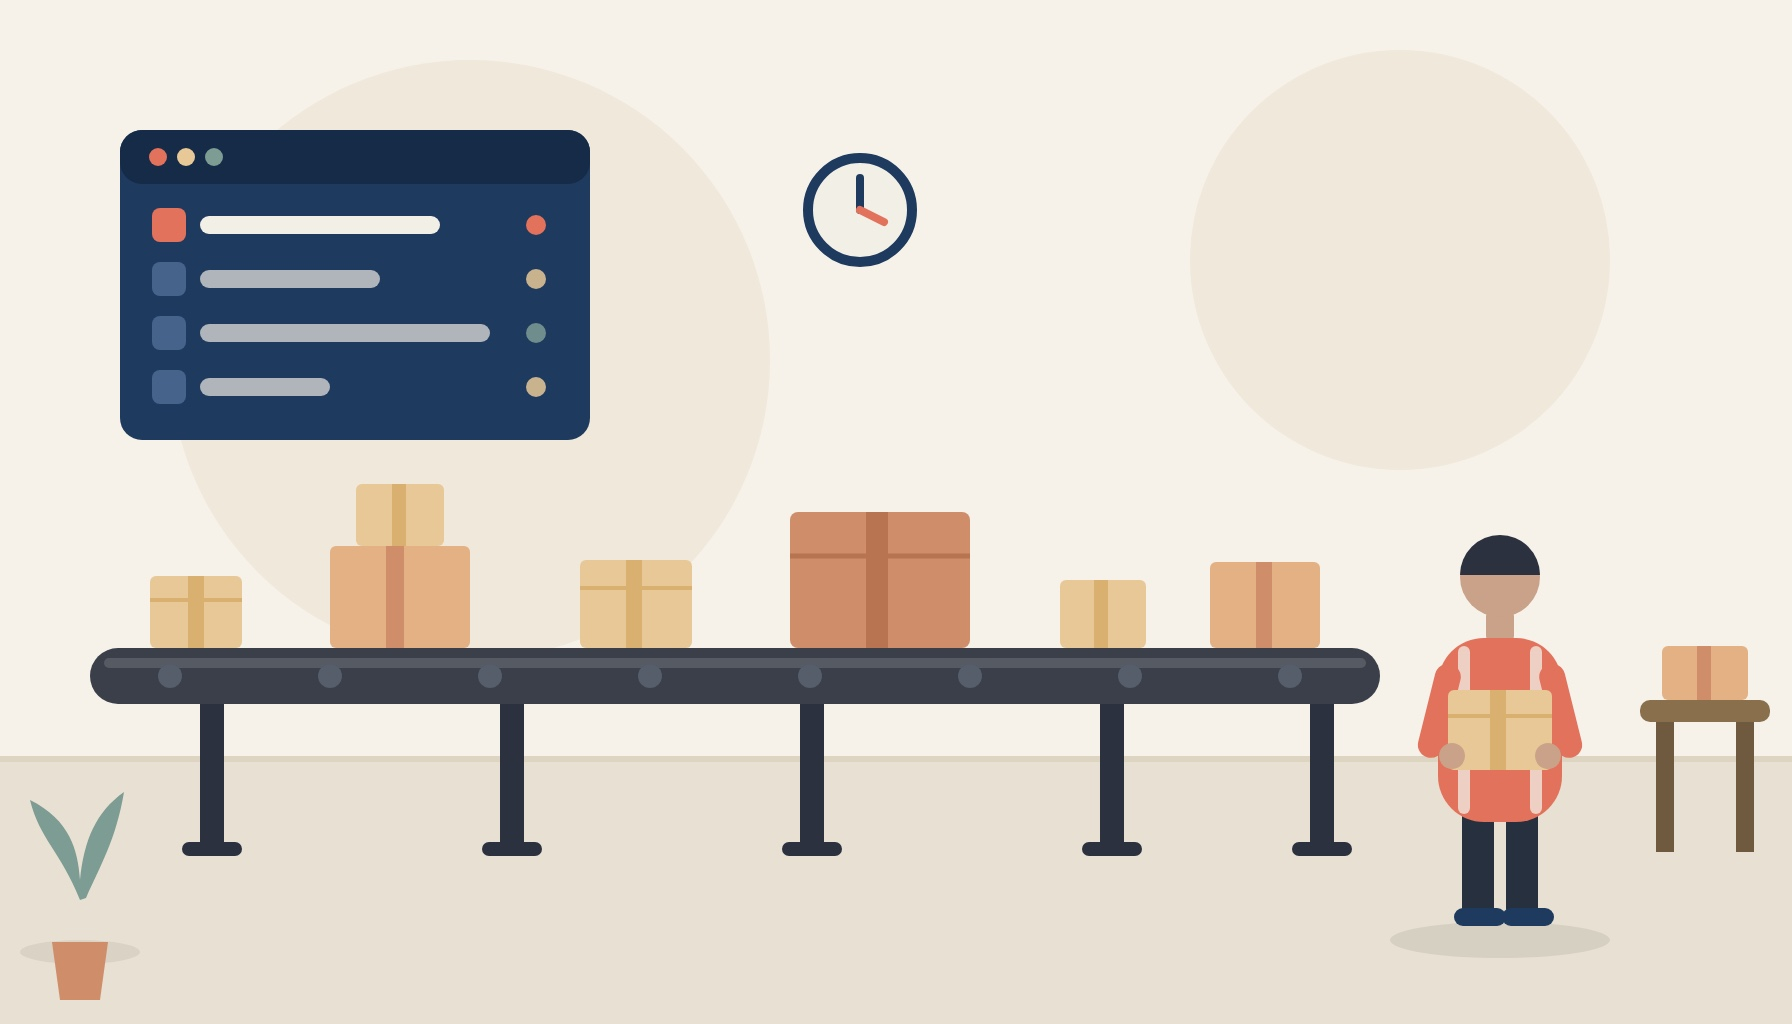
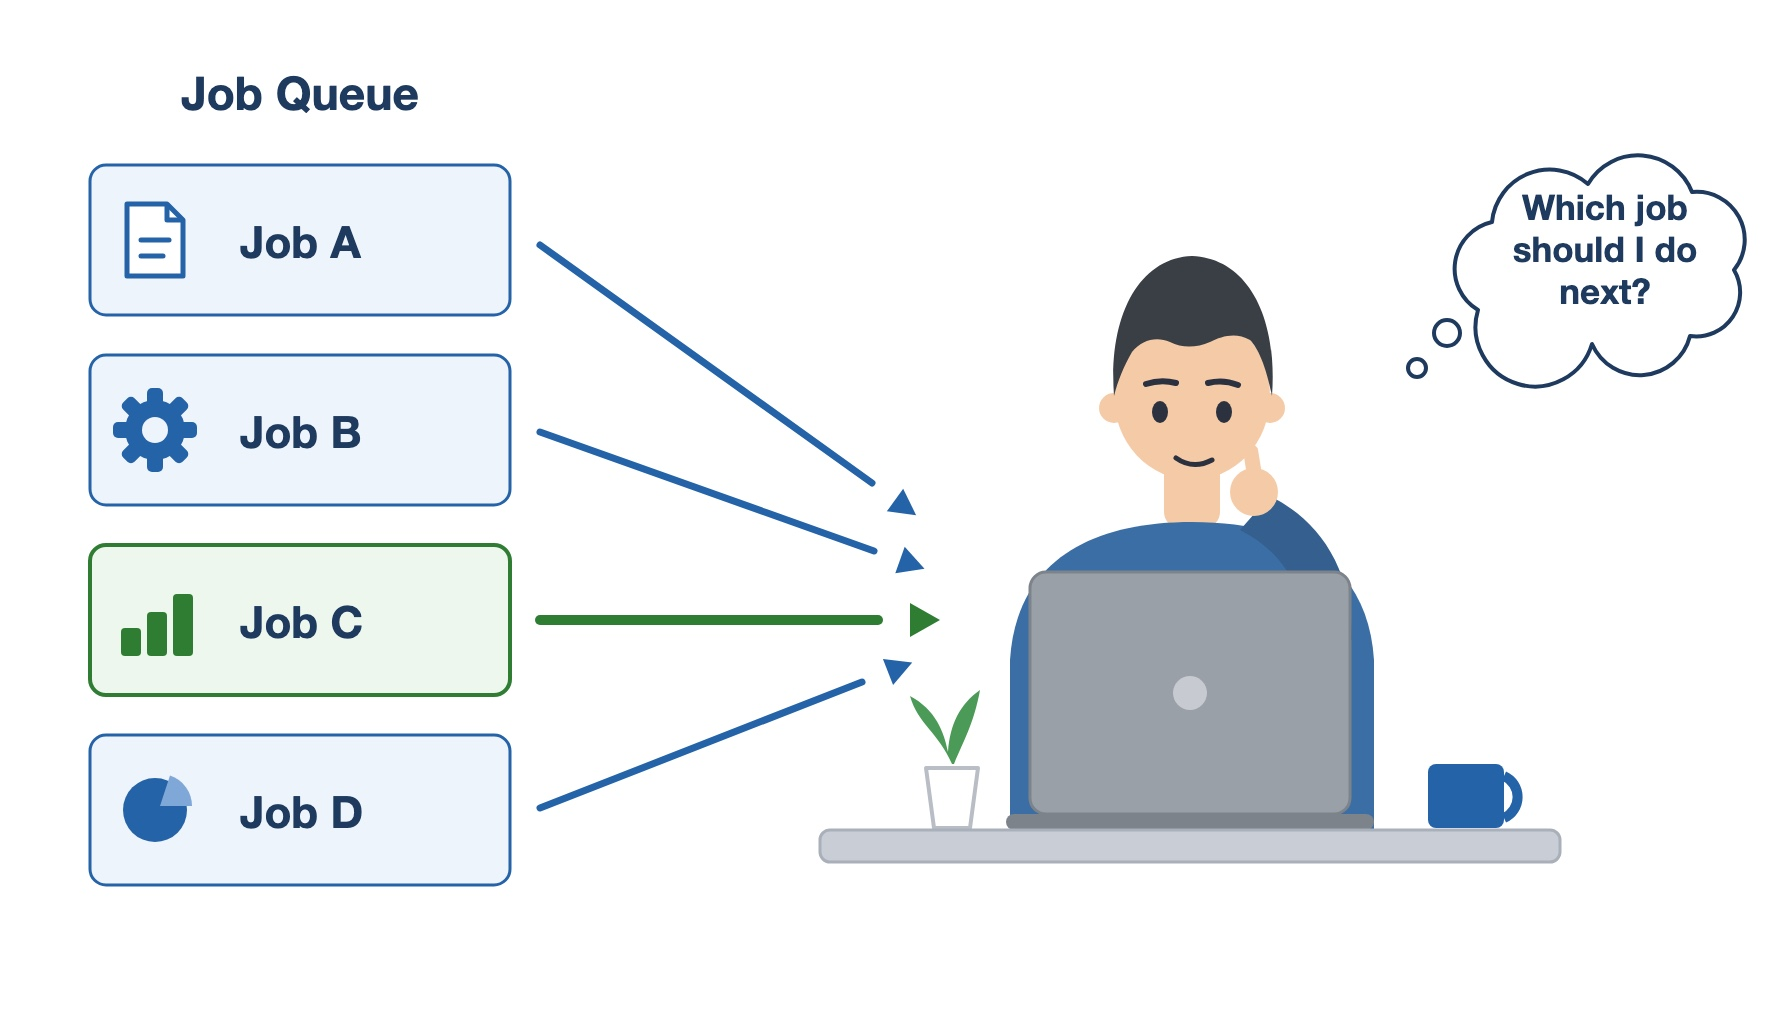
Mark Chasing Tails as forthcoming, update its abstract, new queue figure, update CV
- Publications template: support forthcoming flag (renders "Forthcoming in" instead of "Published in")
- Chasing Tails: forthcoming in Management Science, revised excerpt wording
- Replace Current Research queue illustration with job-queue diagram version
- Update CV

diff --git a/_includes/archive-single.html b/_includes/archive-single.html
@@ -41,7 +41,7 @@
         {% if post.collection == 'teaching' %}
           <p> {{ post.type }}, <i>{{ post.venue }}</i>, {{ post.date | default: "1900-01-01" | date: "%Y" }} </p>
         {% elsif post.collection == 'publications' %}
-          <p>Published in <i>{{ post.venue }}</i>, {{ post.date | default: "1900-01-01" | date: "%Y" }} </p>
+          <p>{% if post.forthcoming %}Forthcoming in{% else %}Published in{% endif %} <i>{{ post.venue }}</i>, {{ post.date | default: "1900-01-01" | date: "%Y" }} </p>
         {% elsif post.date %}
          <p class="page__date"><strong><i class="fa fa-fw fa-calendar" aria-hidden="true"></i> {{ site.data.ui-text[site.locale].date_label | default: "Published:" }}</strong> <time datetime="{{ post.date | default: "1900-01-01" | date_to_xmlschema }}">{{ post.date | default: "1900-01-01" | date: "%B %d, %Y" }}</time></p>
         {% endif %}

diff --git a/_layouts/single.html b/_layouts/single.html
@@ -37,7 +37,7 @@ layout: default
         {% if page.collection == 'teaching' %}
           <p> {{ page.type }}, <i>{{ page.venue }}</i>, {{ page.date | default: "1900-01-01" | date: "%Y" }} </p>
         {% elsif page.venue and page.date %}
-          <p>Published in <i>{{ page.venue }}</i>, {{ page.date | default: "1900-01-01" | date: "%Y" }} </p>
+          <p>{% if page.forthcoming %}Forthcoming in{% else %}Published in{% endif %} <i>{{ page.venue }}</i>, {{ page.date | default: "1900-01-01" | date: "%Y" }} </p>
         {% elsif page.date %}
           <p class="page__date"><strong><i class="fa fa-fw fa-calendar" aria-hidden="true"></i> {{ site.data.ui-text[site.locale].date_label | default: "Published:" }}</strong> <time datetime="{{ page.date | date_to_xmlschema }}">{{ page.date | default: "1900-01-01" | date: "%B %d, %Y" }}</time></p>
         {% endif %}

diff --git a/_publications/waiting.md b/_publications/waiting.md
@@ -2,9 +2,10 @@
 title: "Chasing Tails: How Do People Respond to Wait Time Distributions?"
 collection: publications
 permalink: /publication/waiting
-excerpt: "Waiting is something we encounter daily, whether standing in line at a coffee shop, awaiting a ride-share pickup at the airport, or sitting in a doctor's office. In this study, we examine how different aspects of waiting affect our preferences among service providers. Our findings reveal that people respond negatively to waits that are more uncertain, more skewed, or less well understood."
+excerpt: "Waiting is something we encounter daily, whether standing in line at a coffee shop, awaiting a ride-share pickup at the airport, or sitting in a doctor's office. In this study, we examine how different aspects of waiting affect our preferences among service providers. Our findings reveal that people respond negatively to waits that have a spike in long waiting times, and that standard models of risk aversion do not capture preferences well."
 date: "2026-07-01"
 venue: "Management Science"
+forthcoming: true
 citation: 'Kagan Evgeny, Kyle Hyndman, Andrew Davis (2026). &quot;Chasing Tails: How Do People Respond to Wait Time Distributions?&quot; <i>Management Science</i>, Forthcoming.'
 ---
 
